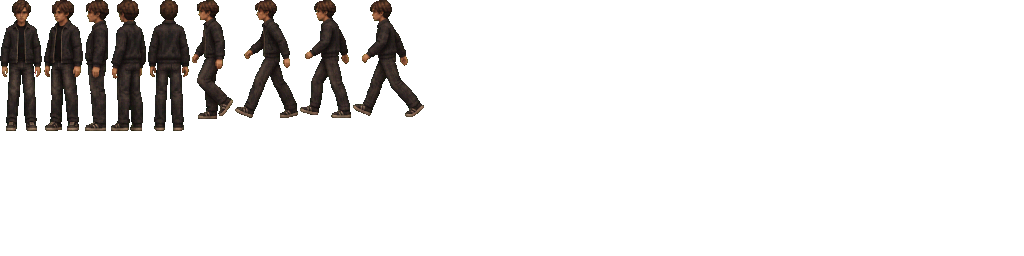
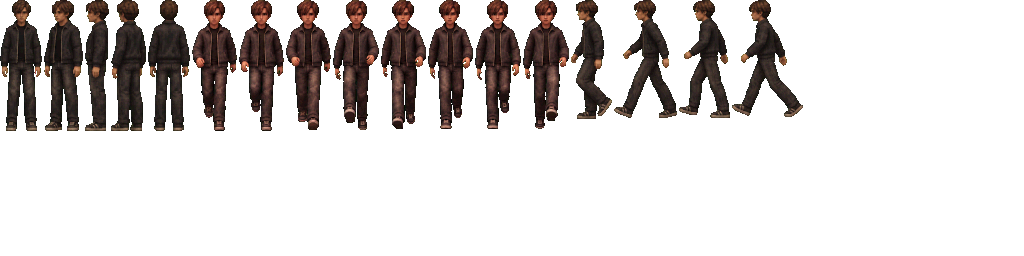
8-frame walk and run cycles in five directions
New GPT sheets for Rufki and Argjila (front, 3/4 front, side, 3/4 back,
back, side run), the Other Rufki and the Unmet (front, back) and both
children (front). The engine picks the nearest drawn direction, mirrors
for the right side, plays any cycle length over one two-step stride and
switches to the run cycle when running; cadence tuned to the stride.

Claude-Session: https://claude.ai/code/session_01SGdApBhSdjRp9Ng7MrzK8h

Changed region(s): [[0.1875, 0.0, 0.7812, 0.5312]]

diff --git a/one-minute-away/js/actors.js b/one-minute-away/js/actors.js
@@ -126,17 +126,23 @@ export class Character {
     if (this.frameOverride) { const [g, i] = this.frameOverride; const L = F[g]; if (L) return this.setFrame(L[i % L.length], mirror); }
     if (this.poseName && F.pose && POSE[this.poseName] != null) return this.setFrame(F.pose[POSE[this.poseName]], mirror);
     if (this.anim && F[this.anim.group]) { const L = F[this.anim.group]; return this.setFrame(L[Math.floor(this.t * this.anim.fps) % L.length], this.anim.mirror ?? mirror); }
-    const step = Math.floor((this.phase + this.early) / (Math.PI / 2)) & 3;
     const moving = this.amp > 0.12;
     this._sway = 0;
     if (moving) {
-      // walking at an angle to the camera reads best as a side walk; only
-      // (nearly) straight toward / away uses the front / back cycle
-      const a = Math.abs(rel);
-      const grp = a < 0.5 ? "walkF" : a > Math.PI - 0.5 ? "walkB" : "walkS";
-      let L = F[grp];
-      if (!L && F.walkS && a > 0.3 && a < Math.PI - 0.3) L = F.walkS;
-      if (L) { this.pivot.position.y = 0; return this.setFrame(L[step], L === F.walkS ? mirror : false); }
+      // five walking directions: front, 3/4 front, side, 3/4 back, back (all drawn facing left,
+      // mirrored for the right); a sheet without one falls back to its neighbour
+      const a = Math.abs(rel), P8 = Math.PI / 8;
+      const dir = a < P8 * 1.5 ? 0 : a < P8 * 3.2 ? 1 : a < P8 * 4.8 ? 2 : a < P8 * 6.5 ? 3 : 4;
+      const order = [["walkF", "walkFQ", "walkS"], ["walkFQ", "walkS", "walkF"], ["walkS", "walkFQ", "walkBQ"], ["walkBQ", "walkS", "walkB"], ["walkB", "walkBQ", "walkS"]][dir];
+      let grp = order.find((g) => F[g]);
+      if (this.running && F.runS && dir >= 1 && dir <= 3) grp = "runS";
+      const L = grp && F[grp];
+      if (L) {
+        this.pivot.position.y = 0;
+        // one full cycle (two steps) per 2π of phase, whatever the frame count
+        const n = L.length, i = ((Math.floor(((this.phase + this.early) / (Math.PI * 2)) * n) % n) + n) % n;
+        return this.setFrame(L[i], grp === "walkF" || grp === "walkB" ? false : mirror);
+      }
       // no cycle drawn from this angle: step the turnaround with a bob and a weight shift
       this.pivot.position.y = Math.abs(Math.sin(this.phase)) * 0.04;
       this._sway = Math.sin(this.phase) * 0.035 * (this.height / 1.75);
@@ -151,8 +157,10 @@ export class Character {
     this.speed = speed;
     const target = Math.min(1, speed / 2.0) * (run ? 1 : 0.62);
     this.amp += (target - this.amp) * Math.min(1, dt * 10);
+    this.running = run && speed > 2.4;
     const before = Math.floor(this.phase / Math.PI);
-    if (speed > 0.05) this.phase += dt * speed * (run ? 2.6 : 3.3);
+    // cadence: about two steps a second walking (0.8 m stride), three running
+    if (speed > 0.05) this.phase += dt * speed * (run ? 2.5 : 3.9);
     else this.phase = Math.round(this.phase / Math.PI) * Math.PI;
     if (speed > 0.05 && Math.floor(this.phase / Math.PI) !== before) this.onStep?.(run);
   }
